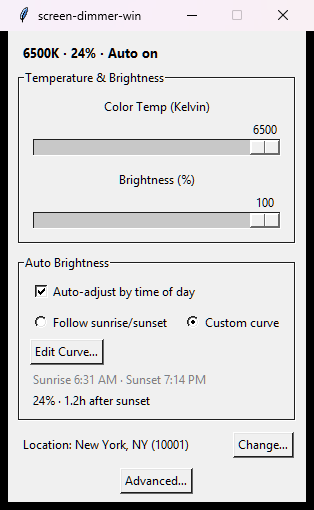
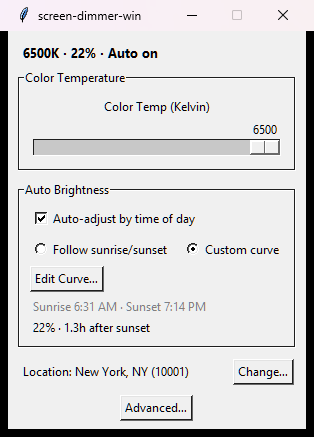
Hide the manual brightness slider while auto brightness is on
The slider stayed visible but disabled at 100% while the header reported the auto level, so the window showed two contradictory brightness values. Hide the row (label and slider) whenever auto owns the level, and retitle the frame to Color Temperature while brightness is absent, since it then holds temperature only.

diff --git a/screen-dimmer-win.py b/screen-dimmer-win.py
@@ -1036,7 +1036,8 @@ class SunsetApp(tk.Tk):
         self.temp_slider.set(6500)
         self.temp_slider.pack(fill="x")
 
-        tk.Label(self.temp_frame, text="Brightness (%)").pack(pady=(10,0))
+        self.bright_label = tk.Label(self.temp_frame, text="Brightness (%)")
+        self.bright_label.pack(pady=(10,0))
         self.bright_slider = tk.Scale(self.temp_frame, from_=5, to=100, orient="horizontal", command=lambda e: self.update_screen())
         self.bright_slider.set(100)
         self.bright_slider.pack(fill="x")
@@ -1361,13 +1362,32 @@ class SunsetApp(tk.Tk):
         if self.auto_var.get():
             self.run_auto_now()
 
+    def set_manual_brightness_visible(self, visible):
+        """Show or hide the manual brightness row (label + slider).
+
+        Idempotent: re-packing a packed widget just re-applies its options,
+        and pack_forget on an unmapped widget does nothing, so callers do not
+        need to track the current state.
+        """
+        if visible:
+            self.bright_label.pack(pady=(10, 0))
+            self.bright_slider.pack(fill="x")
+            self.temp_frame.config(text="Temperature & Brightness")
+        else:
+            self.bright_label.pack_forget()
+            self.bright_slider.pack_forget()
+            # The frame now holds temperature only; keep the title honest.
+            self.temp_frame.config(text="Color Temperature")
+
     def apply_auto_state(self):
-        """Enable/disable manual brightness control based on the auto checkbox."""
+        """Auto brightness owns the level, so the manual slider only exists
+        while auto is off. Leaving it visible but disabled showed a stale 100%
+        next to a header reporting the auto value."""
         if self.auto_var.get():
-            self.bright_slider.config(state="disabled")
+            self.set_manual_brightness_visible(False)
             self.run_auto_now()
         else:
-            self.bright_slider.config(state="normal")
+            self.set_manual_brightness_visible(True)
             self.auto_brightness = 1.0
             self.auto_status.config(text="")
             self.update_screen()

diff --git a/README.md b/README.md
@@ -68,8 +68,8 @@ brightness, and whether auto is on.
 | Control | What it does |
 |---|---|
 | **Color Temp (Kelvin)** | Warmer as you slide left; 6500 K is a no-op. |
-| **Brightness (%)** | Manual dimming. Disabled while auto brightness is on. |
-| **Auto-adjust by time of day** | Enables the schedule; the sub-controls appear underneath. |
+| **Brightness (%)** | Manual dimming. Hidden while auto brightness is on, so nothing on screen contradicts the level in use. |
+| **Auto-adjust by time of day** | Enables the schedule; the sub-controls appear underneath and auto takes over the brightness level. |
 | **Night Brightness** | Floor level for the sunrise/sunset schedule. |
 | **Edit Curve…** | Opens the curve editor (custom-curve mode only). |
 | **Advanced…** | Colour mode switch, minimize-to-tray toggle, and *Reset Screen to Normal*. |
